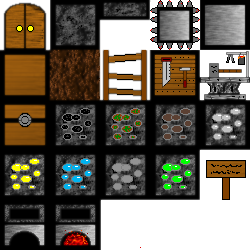
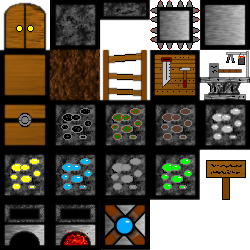
+image popmb

Changed region(s): [[0.392, 0.784, 0.616, 1.0], [0.196, 0.0, 0.224, 0.196], [0.392, 0.084, 0.42, 0.196]]

diff --git a/menu.py b/menu.py
@@ -309,11 +309,11 @@ def cine(app, id):
     pos_txt = (0,0)
 
     if id==1:
-        txt = "dfgdgdfgdgdf\ngfdgfdfgfg\nfdgfdgfdgfgdfg\n"
+        txt = "\"Once upon a time, a hidden \ntower where the beautiful \nprincess Ericia was held \nprisonner.\nMany knights had ventured\ninto this castle but none\nreturned...\nAre you the adventurer who \nwill rescue the princess ?\""
         app.perso.move_el(-app.perso.x+10, -app.perso.y+500)
         pos_txt = (80,200)
     elif id == 2:
-        txt = "\n\nThank you for playing !\nPlease, send me your feedback !\n\n-Ptishell (programer)\npierre.surply@gmail.com"
+        txt = "\"And so you became king of the\nSecret Tower.\nThe monsters who live in this\ntower are now your slaves.\nNow you can taste the pleasures\nof power and wealth, but you\nhaven't found love...\"\n\nThank you for playing !\nPlease, send me your feedback !\n\n-Ptishell (programer)\npierre.surply@gmail.com"
         pos_txt = (80,50)
         bloc_stone = bloc.Stone(1)
         bloc_stone.move_el(0,500)
@@ -332,9 +332,15 @@ def cine(app, id):
     app.perso.isingrav = False
     app.perso.sens = True
     while 1:
-        fps = int(1/(time() - prev))
-        while fps > 30: 
+        if (time() - prev) > 0:
             fps = int(1/(time() - prev))
+        else:
+            fps = 1000
+        while fps > 30: 
+            if (time() - prev) > 0:
+                fps = int(1/(time() - prev))
+            else:
+                fps = 1000
         prev = time()
         # Evenement
         input.update_event(app)

diff --git a/jeu.py b/jeu.py
@@ -525,6 +525,7 @@ def jeu(app, map, perso):
 
         if perso.map != app.partie[1]:
             if app.partie[0] != "Gen" and app.partie[0] != "Multi":
+                app.save_partie()
                 save_map("save/"+app.partie[0]+"/map"+str(app.partie[1]), map)
             return 1
         if app.partie[1] == 19:
@@ -533,9 +534,6 @@ def jeu(app, map, perso):
                 return 5
 
 
-    if app.partie[0] != "Gen" and app.partie[0] != "Multi":
-        app.save_partie()
-        save_map("save/"+app.partie[0]+"/map"+str(app.partie[1]), map)
     return 0
 
 def set_shadow(shadow, map, perso):

diff --git a/bloc.py b/bloc.py
@@ -168,7 +168,7 @@ class Bloc(Element):
             rect = pygame.Rect(0,200, 50,50)
             image.blit(const.sprite_bloc, (0,0), rect)
         elif picture == 24:
-            rect = pygame.Rect(0,250, 50,50)
+            rect = pygame.Rect(100,200, 50,50)
             image.blit(const.sprite_bloc, (0,0), rect)
         
         # Damage
@@ -315,7 +315,7 @@ class Furnace(Stone):
     def __init__(self, picture):
         Bloc.__init__(self, picture)
 
-class PopMob(Stone):
+class PopMob(Bloc):
     def __init__(self, picture=24):
         Bloc.__init__(self, picture)
 

diff --git a/mob.py b/mob.py
@@ -50,7 +50,7 @@ class Mob(Element):
             self.atk = 1
             self.vitesse = 2
         if id == 3:
-            self.vie = 300
+            self.vie = 200
             self.atk = 2
             self.vitesse = 2
 
